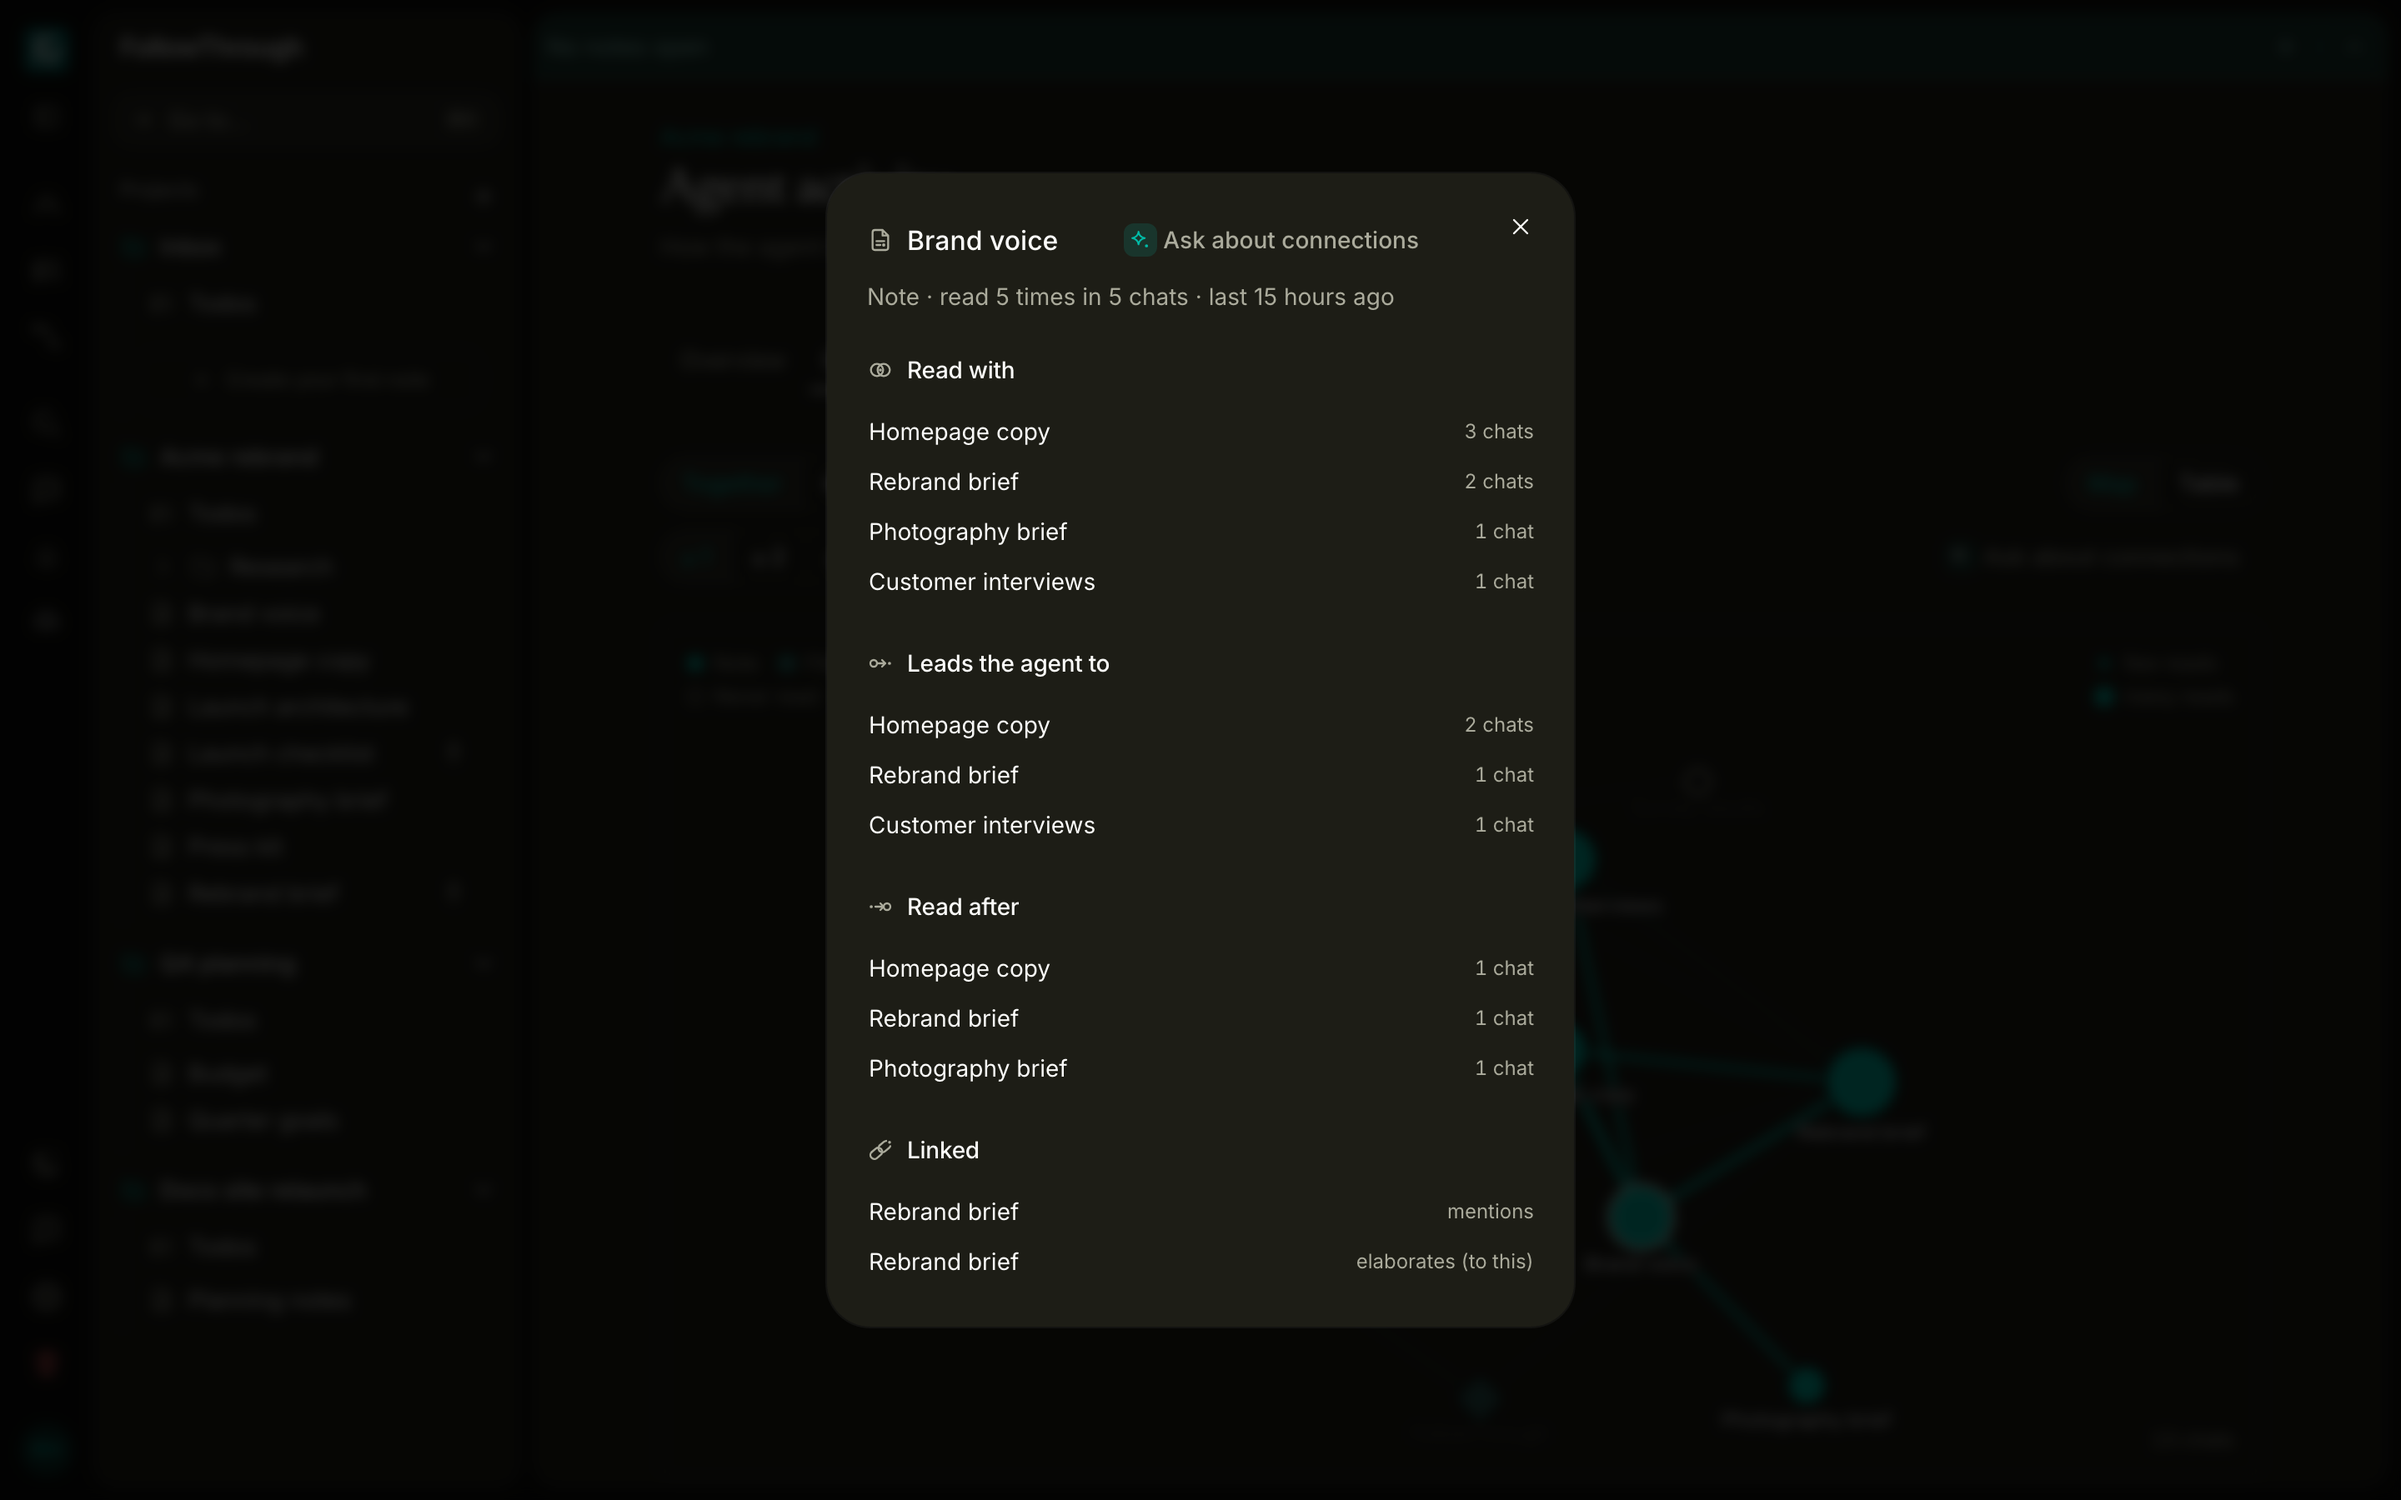
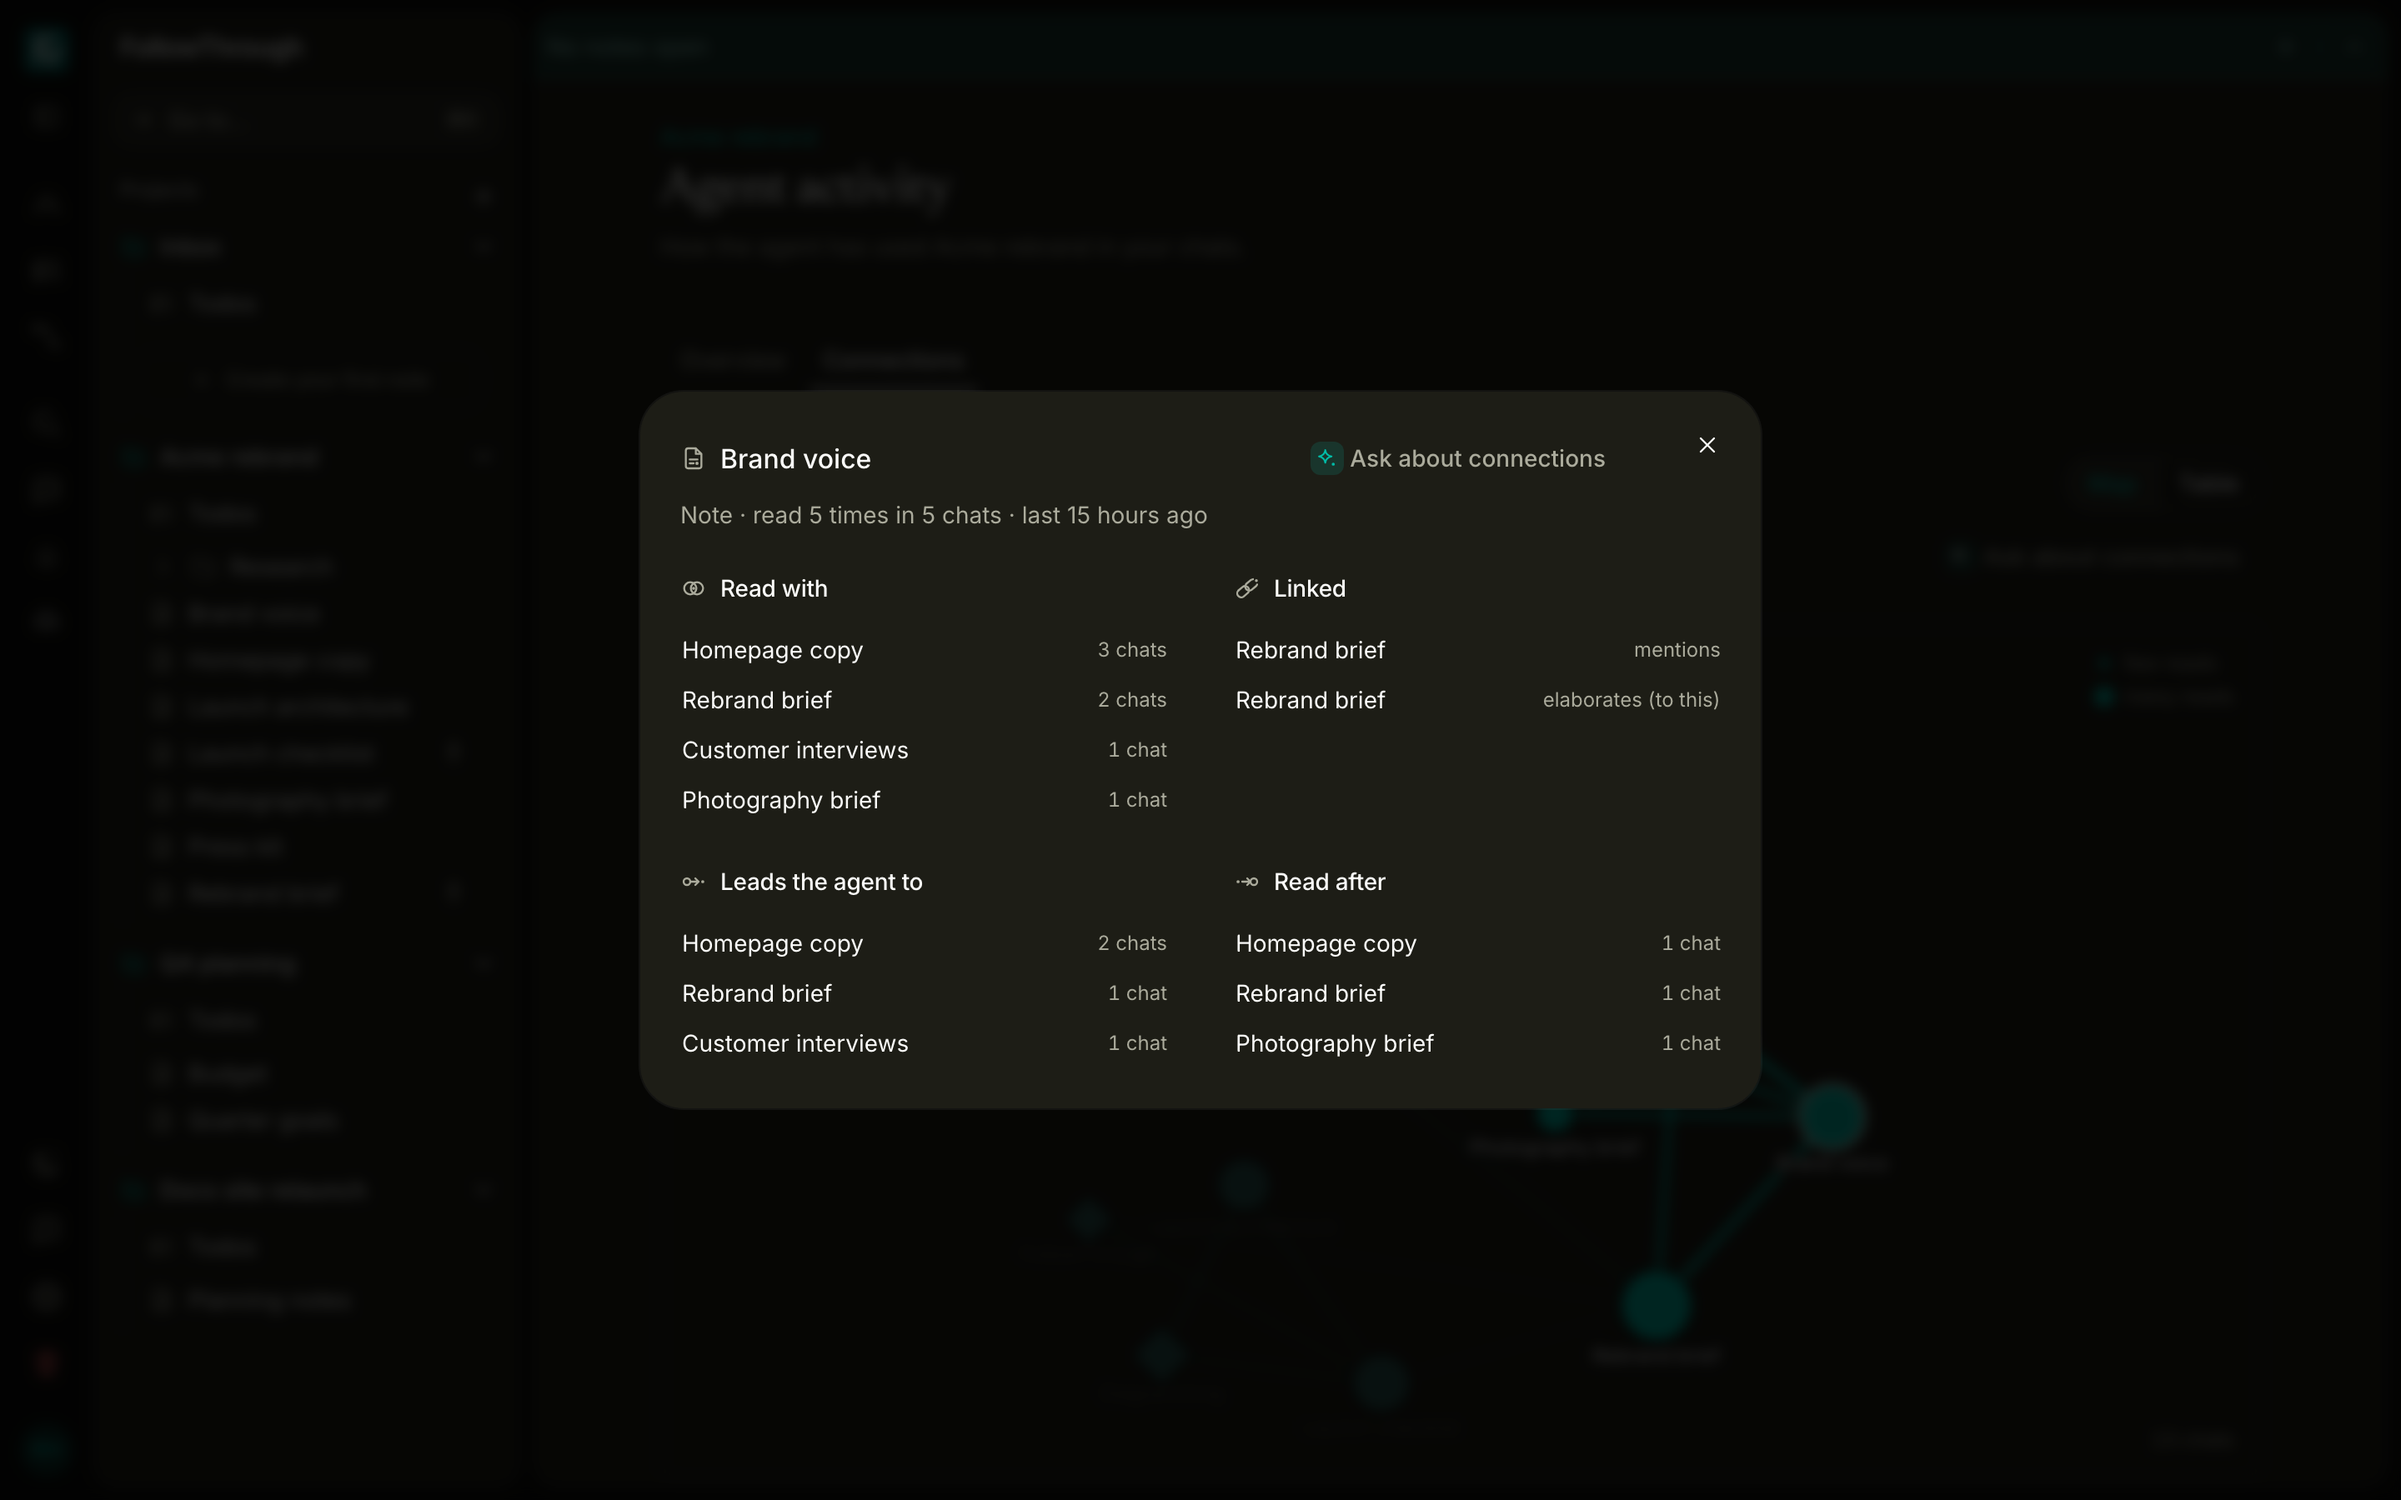
feat(context-usage): lay out item details two by two with drawn empty states
Read with sits beside Linked, then the reading order. An empty section keeps
its heading and shows its own scene above one quiet line, as a kanban column
does. Draw ReadAlone, Unlinked, NothingNext and NothingBefore for them.

diff --git a/src/lib/components/projects/context-usage/connections/connections-item-dialog.svelte b/src/lib/components/projects/context-usage/connections/connections-item-dialog.svelte
@@ -10,6 +10,7 @@
 	import { Button } from '$lib/components/ui/button';
 	import * as Dialog from '$lib/components/ui/dialog';
 	import * as Icon from '$lib/components/icons';
+	import * as Scene from '$lib/components/icons/scenes';
 	import ItemLink from '../item-link.svelte';
 	import { kindNoun } from '../kinds';
 	import ConnectionsAsk from './connections-ask.svelte';
@@ -69,13 +70,21 @@
 {#snippet rows(
 	list: readonly { key: ItemKey; count?: number; label?: string }[],
 	heading: string,
-	Glyph: typeof Icon.Link
+	Glyph: typeof Icon.Link,
+	EmptyScene: typeof Scene.ReadAlone,
+	empty: string
 )}
-	{#if list.length > 0}
-		<section class="flex flex-col gap-row">
-			<h3 class="flex items-center gap-2 text-sm font-medium">
-				<Glyph class="size-4 shrink-0 text-muted-foreground" />{heading}
-			</h3>
+	<section class="flex min-w-0 flex-col gap-row">
+		<h3 class="flex items-center gap-2 text-sm font-medium">
+			<Glyph class="size-4 shrink-0 text-muted-foreground" />{heading}
+		</h3>
+		{#if list.length === 0}
+			<!-- As an empty kanban column: the section's scene above one quiet line. -->
+			<div class="flex flex-1 flex-col items-center justify-center gap-row py-4 text-center">
+				<EmptyScene class="size-16 text-muted-foreground/60" />
+				<p class="max-w-48 text-xs text-muted-foreground/70">{empty}</p>
+			</div>
+		{:else}
 			<ul class="flex flex-col">
 				<!-- A partner linked both ways appears once per direction, so the label is part of the key. -->
 				{#each list.slice(0, 5) as row (`${row.key}|${row.label ?? ''}`)}
@@ -95,12 +104,12 @@
 					</li>
 				{/each}
 			</ul>
-		</section>
-	{/if}
+		{/if}
+	</section>
 {/snippet}
 
 <Dialog.Root bind:open>
-	<Dialog.Content class="flex max-h-dvh flex-col gap-group overflow-y-auto sm:max-w-md">
+	<Dialog.Content class="flex max-h-dvh flex-col gap-group overflow-y-auto sm:max-w-2xl">
 		<Dialog.Header>
 			<!-- The item and what you can ask about it share a row, as on a note's header. -->
 			<div class="flex min-w-0 items-center justify-between gap-2">
@@ -114,12 +123,30 @@
 					: `read ${selected.use.times} ${selected.use.times === 1 ? 'time' : 'times'} in ${chats(selected.chats)} · last ${formatRelativeTime(selected.use.lastAt)}`}
 			</Dialog.Description>
 		</Dialog.Header>
-		{@render rows(detail.with, 'Read with', Icon.ReadTogether)}
-		{@render rows(detail.leadsTo, 'Leads the agent to', Icon.LeadsTo)}
-		{@render rows(detail.readAfter, 'Read after', Icon.ReadAfter)}
-		{@render rows(detail.linked, 'Linked', Icon.Link)}
-		{#if detail.with.length === 0 && detail.linked.length === 0}
-			<p class="text-sm text-muted-foreground">Read on its own so far.</p>
-		{/if}
+		<!-- Two by two: what it is read with beside what it is linked to, then the reading order. -->
+		<div class="grid gap-x-section gap-y-group sm:grid-cols-2">
+			{@render rows(
+				detail.with,
+				'Read with',
+				Icon.ReadTogether,
+				Scene.ReadAlone,
+				'Read on its own so far.'
+			)}
+			{@render rows(detail.linked, 'Linked', Icon.Link, Scene.Unlinked, 'No links recorded yet.')}
+			{@render rows(
+				detail.leadsTo,
+				'Leads the agent to',
+				Icon.LeadsTo,
+				Scene.NothingNext,
+				'Nothing read after it yet.'
+			)}
+			{@render rows(
+				detail.readAfter,
+				'Read after',
+				Icon.ReadAfter,
+				Scene.NothingBefore,
+				'Nothing read before it yet.'
+			)}
+		</div>
 	</Dialog.Content>
 </Dialog.Root>

diff --git a/src/lib/components/icons/scenes/index.ts b/src/lib/components/icons/scenes/index.ts
@@ -11,9 +11,13 @@ export { default as Finished } from './finished.svelte';
 export { default as InFlight } from './in-flight.svelte';
 export { default as Key } from './key.svelte';
 export { default as Memory } from './memory.svelte';
+export { default as NothingBefore } from './nothing-before.svelte';
+export { default as NothingNext } from './nothing-next.svelte';
 export { default as Open } from './open.svelte';
 export { default as Project } from './project.svelte';
+export { default as ReadAlone } from './read-alone.svelte';
 export { default as Saved } from './saved.svelte';
 export { default as Search } from './search.svelte';
 export { default as Trash } from './trash.svelte';
+export { default as Unlinked } from './unlinked.svelte';
 export { default as Widget } from './widget.svelte';

diff --git a/src/lib/components/icons/scenes/unlinked.svelte b/src/lib/components/icons/scenes/unlinked.svelte
@@ -1,0 +1,34 @@
+<script lang="ts">
+	import type { SVGAttributes } from 'svelte/elements';
+	import Frame from './frame.svelte';
+
+	let props: SVGAttributes<SVGSVGElement> = $props();
+</script>
+
+<!--
+	No link recorded: two chain links at the chain's angle that do not meet, the second faint. The
+	dot marks where they would join. Scene form of `Icon.Link`.
+-->
+<Frame {...props}>
+	<rect
+		class="ft-stroke"
+		pathLength="1"
+		x="6"
+		y="27"
+		width="24"
+		height="12"
+		rx="6"
+		transform="rotate(-35 18 33)"
+	/>
+	<rect
+		class="ft-stroke ft-d1 ft-soft"
+		pathLength="1"
+		x="34"
+		y="25"
+		width="24"
+		height="12"
+		rx="6"
+		transform="rotate(-35 46 31)"
+	/>
+	<circle class="ft-accent" cx="32" cy="32" r="2.6" fill="currentColor" stroke="none" />
+</Frame>

diff --git a/src/lib/components/projects/context-usage/connections/connections-item-dialog.svelte.spec.ts b/src/lib/components/projects/context-usage/connections/connections-item-dialog.svelte.spec.ts
@@ -51,3 +51,20 @@ it('lists a partner linked both ways once per direction', async () => {
 	});
 	await expect.element(screen.getByText('elaborates (to this)')).toBeVisible();
 });
+
+it('says what is missing in each section an item has nothing in', async () => {
+	const screen = await render(ConnectionsItemDialog, {
+		report,
+		projectId: testProjectId(),
+		projectName: 'Launch',
+		selected: brief,
+		open: true,
+		onselect: () => {},
+		onask: () => {}
+	});
+	await expect
+		.element(screen.getByRole('dialog'))
+		.toHaveTextContent(
+			/Read on its own so far\..*No links recorded yet\..*Nothing read after it yet\..*Nothing read before it yet\./
+		);
+});

diff --git a/src/lib/components/icons/scenes/read-alone.svelte b/src/lib/components/icons/scenes/read-alone.svelte
@@ -1,0 +1,16 @@
+<script lang="ts">
+	import type { SVGAttributes } from 'svelte/elements';
+	import Frame from './frame.svelte';
+
+	let props: SVGAttributes<SVGSVGElement> = $props();
+</script>
+
+<!--
+	An item read on its own: its circle, and a faint second circle where a partner would overlap.
+	The dot sits in the ground they would share. Scene form of `Icon.ReadTogether`.
+-->
+<Frame {...props}>
+	<circle class="ft-stroke" pathLength="1" cx="25" cy="32" r="13" />
+	<circle class="ft-stroke ft-d1 ft-soft" pathLength="1" cx="39" cy="32" r="13" />
+	<circle class="ft-accent" cx="32" cy="32" r="2.6" fill="currentColor" stroke="none" />
+</Frame>

diff --git a/src/lib/components/icons/scenes/nothing-before.svelte b/src/lib/components/icons/scenes/nothing-before.svelte
@@ -1,0 +1,16 @@
+<script lang="ts">
+	import type { SVGAttributes } from 'svelte/elements';
+	import Frame from './frame.svelte';
+
+	let props: SVGAttributes<SVGSVGElement> = $props();
+</script>
+
+<!--
+	Nothing read before an item yet: the dot where an earlier item would sit, a faint arrow into the
+	item, and its circle. Scene form of `Icon.ReadAfter`.
+-->
+<Frame {...props}>
+	<circle class="ft-stroke" pathLength="1" cx="47" cy="32" r="8" />
+	<path class="ft-stroke ft-d1 ft-soft" pathLength="1" d="M19 32h18M32 26.5l5.5 5.5-5.5 5.5" />
+	<circle class="ft-accent" cx="11" cy="32" r="2.6" fill="currentColor" stroke="none" />
+</Frame>

diff --git a/src/lib/components/icons/scenes/nothing-next.svelte b/src/lib/components/icons/scenes/nothing-next.svelte
@@ -1,0 +1,16 @@
+<script lang="ts">
+	import type { SVGAttributes } from 'svelte/elements';
+	import Frame from './frame.svelte';
+
+	let props: SVGAttributes<SVGSVGElement> = $props();
+</script>
+
+<!--
+	Nothing read after an item yet: its circle, a faint arrow leaving it, and the dot where the next
+	item would land. Scene form of `Icon.LeadsTo`.
+-->
+<Frame {...props}>
+	<circle class="ft-stroke" pathLength="1" cx="17" cy="32" r="8" />
+	<path class="ft-stroke ft-d1 ft-soft" pathLength="1" d="M27 32h18M40 26.5l5.5 5.5-5.5 5.5" />
+	<circle class="ft-accent" cx="53" cy="32" r="2.6" fill="currentColor" stroke="none" />
+</Frame>

diff --git a/docs/design/agent-digest.md b/docs/design/agent-digest.md
@@ -137,4 +137,4 @@
 - check shadcn/edra component exists before creating new
 - src/routes/layout.css=values, docs/design/design-system.md=usage, this file=digest. digest conflicts with source → source wins, update digest
 - Icon.Link = woven chain (two links, chain-emoji angle, upper ends in dot); used for backlinks + relate actions. moment `snap` (AgentAction `moment="snap"`, `.ft-snap`): links slide together, dot lands, once per click.
-- connection relations: open circle = item in view, dot = other item. Icon.ReadTogether = two overlapping circles, dot in overlap (read in same chats). Icon.LeadsTo = circle → arrow → dot (read next). Icon.ReadAfter = dot → arrow → circle (read first). recorded link stays Icon.Link.
+- connection relations: open circle = item in view, dot = other item. Icon.ReadTogether = two overlapping circles, dot in overlap (read in same chats). Icon.LeadsTo = circle → arrow → dot (read next). Icon.ReadAfter = dot → arrow → circle (read first). recorded link stays Icon.Link. item dialog empty sections = kanban treatment: heading kept, scene size-16 + one quiet line. Scene.ReadAlone / Scene.Unlinked / Scene.NothingNext / Scene.NothingBefore.

diff --git a/docs/design/design-system.md b/docs/design/design-system.md
@@ -366,6 +366,11 @@ drawn size at every scale — the scene is how a large empty state gets presence
 scaled-up glyph. Controls that only operate on content (tabs, filters, sort, bulk toolbars) hide
 while the region is empty; the empty state and its one action are the whole surface.
 
+The connection map's item dialog uses the same treatment per section: an empty section keeps its
+heading and centers its own scene (`size-16`) above one quiet line. Each scene is the empty form of
+the section's mark: `Scene.ReadAlone` (read with), `Scene.Unlinked` (linked), `Scene.NothingNext`
+(leads the agent to) and `Scene.NothingBefore` (read after).
+
 ## Surface pattern rules
 
 - **Version history & conflict review:** a near-full-screen dialog with a two-pane side-by-side
